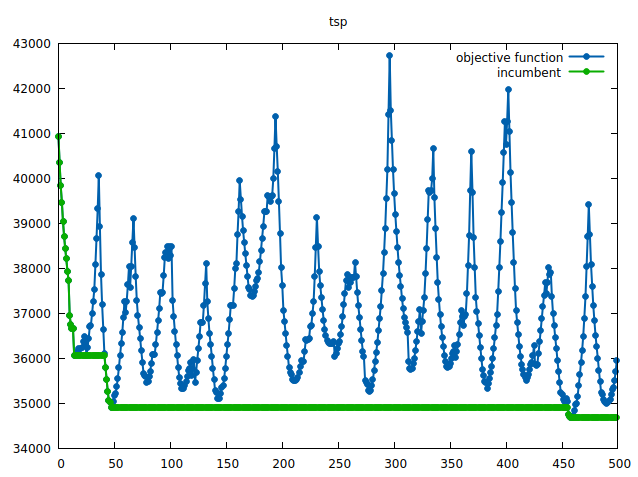
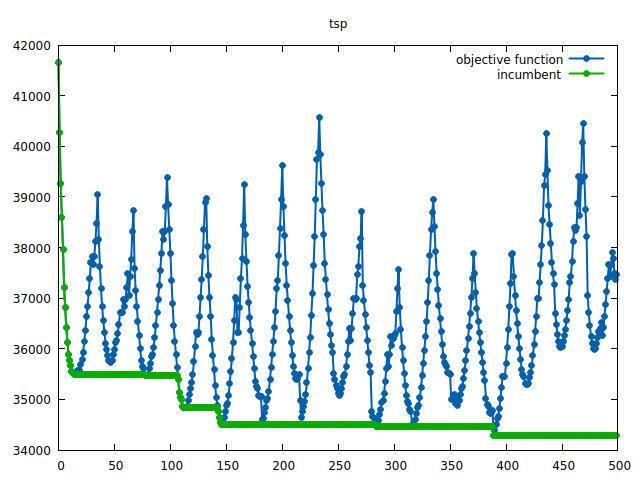
update

Changed region(s): [[0.0, 0.0587, 0.9828, 0.9686], [0.0, 0.8218, 0.0893, 0.8805], [0.5063, 0.0294, 0.5658, 0.0587]]

diff --git a/report/euristici.tex b/report/euristici.tex
@@ -399,13 +399,17 @@ To describe the algorithm we asserted that the tabu list is made of couples of e
 
 \noindent The handle of the tabu list is very important and different strategies can have a big impact on the algorithm. Of course if we continue inserting element we will reach a point where there aren't possible moves. So we limit the size of the tabu list. The size is called tenure. When the list is full, the older element are removed.
 The tenure is another parameter to set. A possible way to do this is to set a minimal and a maximal value and let the tenure oscillate among them during the algorithm. So we will have diversification phases when the tenure is big and there are lot of forbidden move and intensification phases when the tenure is small and the algorithm has lot of freedom. This is called reactive tabu search.
-Another shrewdness is that if we encounter a move that is forbidden but that improves the incumbent, we will not perform that move but we will update the value of the incumbent in any case (Aspiration criterion).
+Another shrewdness is that if we encounter a move that is forbidden but that improves the incumbent, we will not perform that move but we will update the value of the incumbent in any case (Aspiration criterion).\\
 
 \begin{figure}[h!]
 \centering
-	\includegraphics[scale=0.40]{media/tabuSearch1.png} \\
+	\includegraphics[scale=0.6]{media/tabuSearch1.png} \\
 	\caption{Objective function and incumbent during the execution of tabu search}
 \end{figure}
+
+\noindent On our implementation we use a fixed-size tabu list, with the tenure that is a parameter decided by the user. The list records only one vertex involved in the move: so for example if we perform a pejorative move and we substitute the edges $v_{ab}$ and $v_{cd}$ with $v_{ac}$ and $v_{bd}$, only the vertex a is stored in the tabù list. When we find a good move, we check that all the 4 vertices involved are not in the tabu list, so even if we record only one point per move, this is sufficient to avoid to return back after a pejorative move. \\
+The check if a move is forbidden require a $O(k)$, where k is the tenure. So we perform this control only to moves that are better than the best move found until that moment (It's useless to check pejorative moves or moves that are not candidate to be selected as best move). \\
+Finally we also implemented the aspiration criterion, so if a forbidden move leads to an improve of the incumbent, we keep that solution and we update the incumbent too.
 
 
 \subsection{Simulated Annealing}
